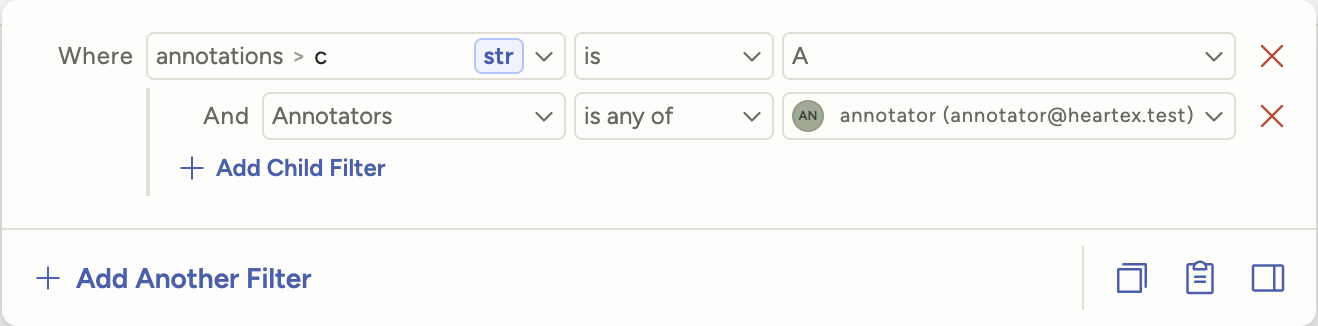
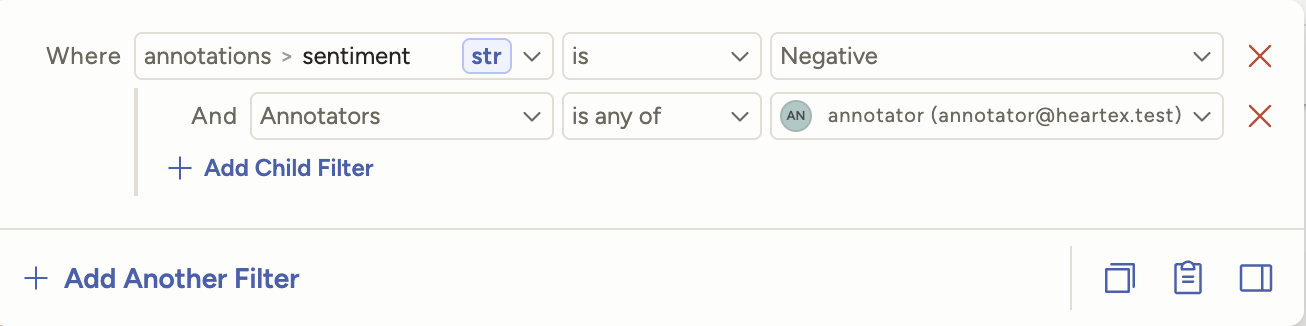
docs: UTC-1543: Add an annotation results child filter example

diff --git a/docs/source/guide/manage_data.md b/docs/source/guide/manage_data.md
@@ -62,10 +62,8 @@ You can filter tasks by the results of their annotations. In the filter list, se
 
 An annotation results filter comes with an **Annotators** child filter, so you can look only at annotations by specific annotators. For more information, see [Use child filters](#Use-child-filters).
 
-<img src="/images/data-manager-filters-lse.png" class="gif-border" >
-
 !!! note
-    In Label Studio Community, the `Annotation results` filter is an unstructured text search across all annotations for the task, and the example above would not be achievable.
+    In Label Studio Community, the `Annotation results` filter is an unstructured text search across all annotations for the task, so you can't filter by the values of a control tag.
 
 The following tags are supported:
 - All `Labels` tags (ex. `Labels`, `ParagraphLabels`, ...)
@@ -81,6 +79,17 @@ The following tags are supported:
 Child filters let you filter tasks by conditions that must all apply to the _same_ annotation, review, or prediction, rather than to the task as a whole. For example, you can find tasks where a single annotation was both completed by a specific annotator and accepted, rather than tasks where one annotation matches one condition and a different annotation matches the other.
 
 Filters on annotation results, prediction results, and reviews can have child filters. To add one, select **Add Child Filter** under the filter.
+
+#### Example: Find tasks where an annotator chose a label
+
+Find tasks where a specific annotator chose a specific label:
+
+1. Add a filter on your control tag under **Annotations**, for example **annotations > sentiment**. Select **is** and select **Negative**.
+2. In the **Annotators** child filter added with it, select **is any of** and select the annotator.
+
+<img src="/images/data-manager-filters-lse.png" class="gif-border">
+
+Both conditions apply to the same annotation. A task where another annotator chose **Negative** doesn't match.
 
 #### Example: Find recent rejections by a reviewer
 
